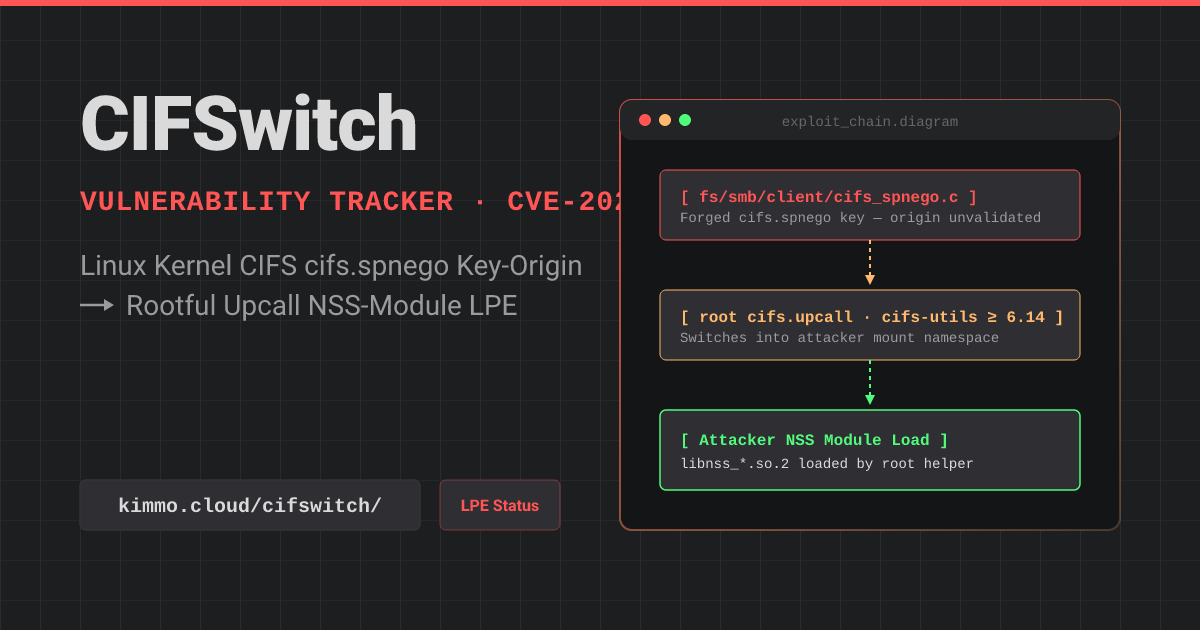
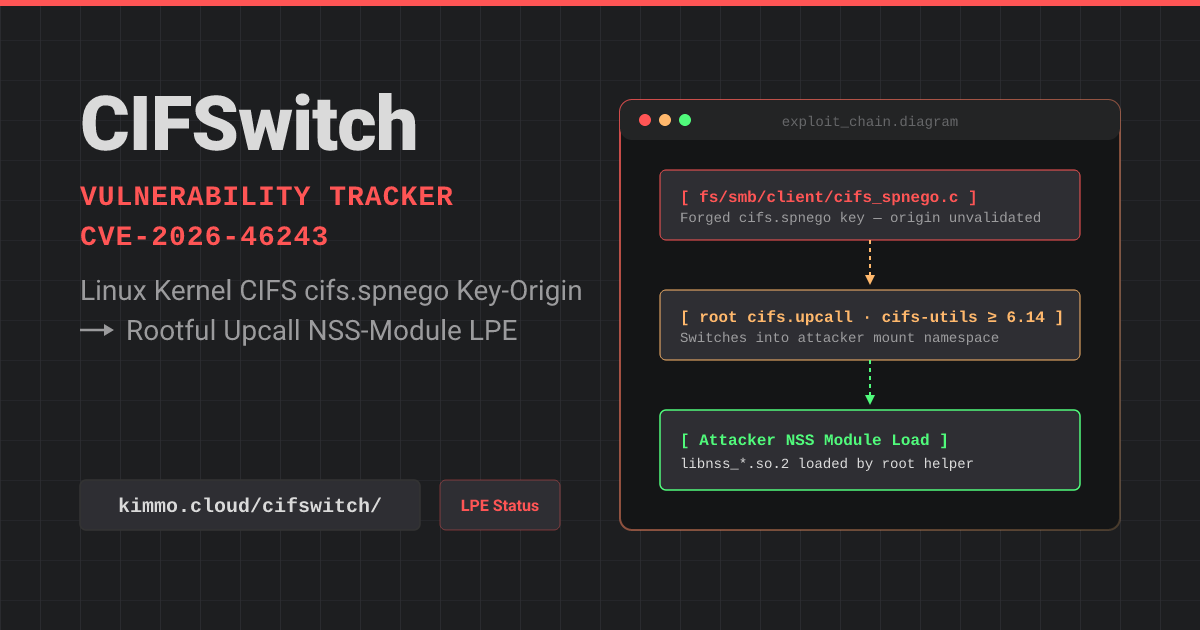
Record CVE-2026-46243 assignment across the project
The Linux kernel CNA assigned CVE-2026-46243 (smb: client: reject
userspace cifs.spnego descriptions) on 2026-06-01, keyed on fix commit
3da1fdf4efbc.  Replace the CVE-2026-XXXXX placeholder throughout and
wire up the CVE-keyed feeds.

Tracker (site/content/_index.md):

  - Summary: real CVE ID; CVSS 3.1 7.8 High
    (AV:L/AC:L/PR:L/UI:N/S:U/C:H/I:H/A:H, NVD); EPSS 0.0002 (4th pct,
    scored 2026-06-04); KEV not listed; note NVD's CWE-20 alongside the
    existing CWE-269/284 framing.
  - Vulnerable commit range: record the introducing commit f1d662a7d5e5
    (v2.6.24), per the CVE record's .dyad; the .dyad's per-branch
    first-fixed versions match the Upstream fixed versions table.
  - References: add NVD, MITRE, kernel CNA, Red Hat, EPSS, KEV.
  - Verification log: bump Last verified to 2026-06-05; update the CVE
    and feed bullets; fix the stale Rocky "no CVE assigned" note.
  - Sweep the verification log of local paths (~/src/...), command
    mechanics (git tag --contains), and fetch-pipeline plumbing, keeping
    concise external-source provenance.

Project docs and agent:

  - README, CLAUDE.md, WEBSITE.md, auto-update prompt: drop the
    placeholder; WEBSITE.md records the decision to keep the /cifswitch/
    slug (no rename to the CVE ID).
  - Fix the "inspect via HEAD" trap: the wrapper only fetches the read
    mirrors, so HEAD stays stale — inspect vulns via origin/master.
    Corrected in CLAUDE.md and the auto-update prompt.
[…]

Changed region(s): [[0.0617, 0.3619, 0.4933, 0.5429], [0.0617, 0.2714, 0.5242, 0.3317]]

diff --git a/site/content/_index.md b/site/content/_index.md
@@ -3,7 +3,7 @@ title: "CIFSwitch — CIFS cifs.spnego key-origin LPE tracking"
 description: "Linux kernel CIFS cifs.spnego key-description origin LPE, via the rootful cifs.upcall helper — distro patch status tracker"
 layout: "single"
 date: 2026-05-27
-lastmod: 2026-06-03
+lastmod: 2026-06-05
 cover:
   image: "cifswitch-tracker.png"
   alt: "CIFSwitch — CIFS cifs.spnego key-origin LPE tracker"
@@ -15,24 +15,24 @@ never validated that a `cifs.spnego` key description originated from
 kernel code, so an unprivileged user can forge one and steer the rootful
 `cifs.upcall` helper into loading an attacker-controlled NSS module.  The
 kernel fix (commit [`3da1fdf4efbc`][fix-commit]) is in mainline; distro
-adoption is being tracked below.  No CVE has been assigned yet — this
-tracker uses the placeholder `CVE-2026-XXXXX`.*
+adoption is being tracked below.  The Linux kernel CNA assigned
+[`CVE-2026-46243`][nvd] on 2026-06-01.*
 
 ## Summary
 
 | Field | Detail |
 |---|---|
-| CVE ID | Not yet assigned — placeholder `CVE-2026-XXXXX` |
+| CVE ID | [CVE-2026-46243][nvd] (assigned 2026-06-01 by the Linux kernel CNA) |
 | Alias | CIFSwitch |
 | Component | Kernel: `fs/smb/client/cifs_spnego.c` (pre-6.7 path: `fs/cifs/cifs_spnego.c`) · Userspace: `cifs.upcall` from cifs-utils ≥ 6.14 |
 | Type | Local Privilege Escalation (LPE) — forged `cifs.spnego` key → rootful upcall → attacker NSS-module load |
-| CWE | [CWE-269][cwe-269] Improper Privilege Management · [CWE-284][cwe-284] Improper Access Control |
-| CVSS | not yet scored |
+| CWE | [CWE-269][cwe-269] Improper Privilege Management · [CWE-284][cwe-284] Improper Access Control (NVD: [CWE-20][cwe-20] Improper Input Validation) |
+| CVSS | 7.8 (High) — `CVSS:3.1/AV:L/AC:L/PR:L/UI:N/S:U/C:H/I:H/A:H` (NVD) |
 | Discoverer | Asim Viladi Oglu Manizada |
 | Public disclosure | 2026-05-27 — [heyitsas.im/posts/cifswitch][writeup] |
 | Public PoC | [manizada/CIFSwitch][poc] |
-| KEV listed | not yet |
-| EPSS | n/a until a CVE is assigned |
+| KEV listed | Not listed |
+| EPSS | 0.0002 (4th percentile), scored 2026-06-04 |
 
 ## How the chain works
 
@@ -71,11 +71,11 @@ patch is the canonical fix** this tracker keys on.
 
 | Commit | Role | Description |
 |---|---|---|
-| *(git blame: ~2007)* | Introduced | The `cifs.spnego` key type has lacked an origin check since SPNEGO upcall support was added (~2007).  No single introducing commit is cited by the disclosure. |
+| `f1d662a7d5e5` | Introduced | *[CIFS] Add upcall files for cifs to use spnego/kerberos* (2007-11-05) — added the `cifs.spnego` key type without an origin check; first shipped in v2.6.24.  Identified as the introducing commit by the kernel CNA's CVE record. |
 | [`3da1fdf4efbc`][fix-commit] | Fix | Adds the `.vet_description = cifs_spnego_key_vet_description` hook, rejecting forged key descriptions; Linus mainline. |
 
 The effective lifetime of the bug is therefore roughly 19 years
-(2007–2026).
+(2007–2026), spanning v2.6.24 (released 2008-01-24) through the fix.
 
 ## Upstream fixed versions
 
@@ -147,9 +147,9 @@ On the EL family `cifs` is a loadable module and SELinux is enforcing by
 default, which may constrain `cifs.upcall`'s ability to load an arbitrary
 NSS module — confirm against the actual policy before treating a release
 as not exploitable.  The shipped `cifs-utils` version is the other gate:
-older EL releases may predate the 6.14 namespace-switch upcall.  Once a
-CVE is assigned, RLSAs (and the matching RHSA / ALSA references) carry the
-fixed kernel.
+older EL releases may predate the 6.14 namespace-switch upcall.  Watch for
+RLSAs (and the matching RHSA / ALSA references) citing CVE-2026-46243 to
+carry the fixed kernel.
 
 ## Detection
 
@@ -352,7 +352,7 @@ until a patched kernel is installed.
 
 ## Verification log
 
-*Last verified 2026-06-03.*
+*Last verified 2026-06-05.*
 
 ### Upstream
 
@@ -360,15 +360,17 @@ until a patched kernel is installed.
   `.vet_description = cifs_spnego_key_vet_description` hook in
   `fs/smb/client/cifs_spnego.c`.  The fix was merged into Linus mainline
   after v7.0 branched; it will first appear as a standalone release in v7.1.
-- **No CVE assigned**: `git -C ~/src/linux/vulns grep -l
-  3da1fdf4efbc -- 'cve/published/*'` returns no matches.
-- **All stable branches now carry the backport** (checked against
-  `~/src/linux/stable`): backports landed in all tracked branches on
-  2026-06-01.  First fixed point releases: 7.0.11, 6.18.34, 6.12.92,
-  6.6.142, 6.1.175, 5.15.209, 5.10.258 (all 2026-06-01; confirmed via
-  `git tag --contains <backport-sha>` per branch).  Current point
-  releases per kernel.org finger_banner: 7.0.11, 6.18.34, 6.12.92,
-  6.6.142, 6.1.175, 5.15.209, 5.10.258.
+- **CVE assigned**: the Linux kernel CNA assigned `CVE-2026-46243`
+  (*smb: client: reject userspace cifs.spnego descriptions*) on
+  2026-06-01.  Its record confirms the introducing commit `f1d662a7d5e5`
+  (v2.6.24) and per-branch first-fixed versions matching the *Upstream
+  fixed versions* table.
+- **All stable branches now carry the backport**: it landed in all
+  tracked branches on 2026-06-01.  First fixed point releases: 7.0.11,
+  6.18.34, 6.12.92, 6.6.142, 6.1.175, 5.15.209, 5.10.258 (all 2026-06-01,
+  confirmed per branch).  Current point releases per kernel.org
+  finger_banner match those: 7.0.11, 6.18.34, 6.12.92, 6.6.142, 6.1.175,
+  5.15.209, 5.10.258.
 
 ### Distributions
 
@@ -379,13 +381,13 @@ until a patched kernel is installed.
   9.7, Oracle Linux 9/8, CentOS Stream 9, SLES 15 SP7, openSUSE Leap
   15.6, Linux Mint 22.3/21.3, and Kali 2021.4+ as vulnerable; those are
   used as references only, not tracked as rows.
-- **Debian** (via `api.ftp-master.debian.org/madison`):
+- **Debian** (via the Debian madison archive):
   sid 7.0.10-1 / cifs-utils 7.4; forky 7.0.9-1 / cifs-utils 7.4; trixie
   6.12.86-1 / cifs-utils 7.4; bookworm 6.1.170-3 / cifs-utils 7.0;
   bullseye 5.10.223-1 / cifs-utils 6.11 (< 6.14 — primary exploit path
   absent, reduced exposure).  All kernels unpatched; Debian sid/forky
   rows flipped to `:x:`.
-- **NixOS** (via local nixpkgs clone): nixos-unstable-small and
+- **NixOS** (via the nixpkgs channel pins): nixos-unstable-small and
   nixos-25.11-small have both advanced to `linux_7_0` at 7.0.11 — the
   first fixed release; both rows `:white_check_mark: Fixed`.
   nixos-unstable and nixos-25.11 remain at 7.0.10 — still
@@ -397,18 +399,19 @@ until a patched kernel is installed.
   Proxmox ships its own kernel but Debian userland, so cifs-utils is the
   Debian base version (trixie 7.4, bookworm 7.0 — both ≥ 6.14); both rows
   flipped from `:grey_question:` to `:x: Vulnerable`.
-- **Rocky Linux** (via BaseOS `repomd.xml` → `primary` on
-  `dl.rockylinux.org` / errata RSS): 10 ⇒ kernel 6.12.0-211.16.1.el10_2
+- **Rocky Linux** (via the Rocky BaseOS repodata / errata RSS): 10 ⇒
+  kernel 6.12.0-211.16.1.el10_2
   / cifs-utils 7.5 (no update); 9 ⇒ 5.14.0-687.12.1.el9_8 / 7.5
   (RLSA-2026:21556, 2026-05-30); 8 ⇒ 4.18.0-553.126.1.el8_10 / 7.0
   (RLSA-2026:21706, 2026-05-31).  All kernels unpatched for CIFSwitch
-  (no CVE assigned; no backport in any upstream stable tree).  The new
-  RLSAs include CVE-2026-31709 (SMB/CIFS client, CWE-1288 out-of-bounds
-  read — a different CIFS vulnerability, not the `vet_description` fix).
+  (no RLSA cites CVE-2026-46243; no `vet_description` backport in the EL
+  kernels yet).  The new RLSAs include CVE-2026-31709 (SMB/CIFS client,
+  CWE-1288 out-of-bounds read — a different CIFS vulnerability, not the
+  `vet_description` fix).
   SELinux-enforcing default may still constrain the upcall (see Rocky
   notes).
-- **Amazon Linux** (via the `cdn.amazonlinux.com` core mirror →
-  `primary`): 2023 ⇒ kernel 6.1.172-216.329.amzn2023 / cifs-utils 7.5
+- **Amazon Linux** (via the Amazon Linux core repodata): 2023 ⇒ kernel
+  6.1.172-216.329.amzn2023 / cifs-utils 7.5
   (default 6.1 stream; `kernel6.12`/`kernel6.18` streams not tracked
   separately); 2 ⇒ core kernel 4.14.355-282.729.amzn2 / cifs-utils 6.2.
   Both kernels unpatched.  AL2's cifs-utils 6.2 is < 6.14 — primary
@@ -418,8 +421,12 @@ until a patched kernel is installed.
   branches now carry the fix (7.0.11, 6.18.34, 6.12.92, 6.6.142,
   6.1.175, 5.15.209, 5.10.258); no distro kernel advisory has referenced
   `3da1fdf4efbc` yet (checked Rocky errata RSS).
-- No CVE-keyed feeds (NVD, EPSS, Red Hat JSON, CISA KEV) resolve yet —
-  no CVE has been assigned.
+- **CVE-keyed feeds**: NVD has the record (status *Awaiting Analysis*,
+  CVSS 3.1 base 7.8 High `AV:L/AC:L/PR:L/UI:N/S:U/C:H/I:H/A:H`, CWE-20);
+  EPSS scores it 0.0002 (4th percentile, scored 2026-06-04); CISA KEV does
+  not list it.  NVD records CWE-20 (Improper Input Validation); the
+  Summary keeps the privilege-management framing (CWE-269 / CWE-284)
+  alongside it.
 
 ## References
 
@@ -429,9 +436,17 @@ until a patched kernel is installed.
 | Public PoC | <https://github.com/manizada/CIFSwitch> |
 | Kernel fix commit | <https://github.com/torvalds/linux/commit/3da1fdf4efbc490041eb4f836bf596201203f8f2> |
 | cifs-utils upstream | <https://git.samba.org/?p=cifs-utils.git;a=summary> |
+| NVD | <https://nvd.nist.gov/vuln/detail/CVE-2026-46243> |
+| MITRE CVE | <https://www.cve.org/CVERecord?id=CVE-2026-46243> |
+| Kernel CNA record | <https://lore.kernel.org/linux-cve-announce/?q=CVE-2026-46243> |
+| Red Hat | <https://access.redhat.com/security/cve/CVE-2026-46243> |
+| FIRST EPSS | <https://api.first.org/data/v1/epss?cve=CVE-2026-46243> |
+| CISA KEV | <https://www.cisa.gov/known-exploited-vulnerabilities-catalog> |
 
 [writeup]: https://heyitsas.im/posts/cifswitch/
 [poc]: https://github.com/manizada/CIFSwitch
 [fix-commit]: https://github.com/torvalds/linux/commit/3da1fdf4efbc490041eb4f836bf596201203f8f2
 [cwe-269]: https://cwe.mitre.org/data/definitions/269.html
 [cwe-284]: https://cwe.mitre.org/data/definitions/284.html
+[cwe-20]: https://cwe.mitre.org/data/definitions/20.html
+[nvd]: https://nvd.nist.gov/vuln/detail/CVE-2026-46243

diff --git a/CLAUDE.md b/CLAUDE.md
@@ -13,8 +13,8 @@ The canonical fix is Linus mainline commit
 `.vet_description = cifs_spnego_key_vet_description` hook in
 `fs/smb/client/cifs_spnego.c` (pre-6.7 path: `fs/cifs/cifs_spnego.c`).
 
-No CVE has been assigned yet — the tracker uses the placeholder
-`CVE-2026-XXXXX`.  Disclosed 2026-05-27 by Asim Viladi Oglu Manizada.
+Tracked as `CVE-2026-46243`, assigned by the Linux kernel CNA on
[phone redacted].  Disclosed 2026-05-27 by Asim Viladi Oglu Manizada.
 Writeup: <https://heyitsas.im/posts/cifswitch/> · PoC:
 <https://github.com/manizada/CIFSwitch>.
 
@@ -353,47 +353,40 @@ The legacy `fs/cifs/cifs_spnego.c` path applies to branches older than
 6.7.  The git smart-HTTP protocol is not Anubis-gated, so `git fetch` /
 `git ls-remote` work from any UA.
 
-## Discovering the CVE
+## The CVE (CVE-2026-46243)
 
-CIFSwitch has no CVE yet — the tracker uses the placeholder
-`CVE-2026-XXXXX`.  The CVE-keyed feeds (NVD, MITRE, Red Hat, EPSS, KEV)
-cannot *find* the assignment; they only become useful once the ID is
-known.
+CIFSwitch was assigned `CVE-2026-46243` by the Linux kernel CNA on
[phone redacted] (the kernel has been its own CNA since Feb 2024).  The
+CVE-keyed feeds (NVD, MITRE, Red Hat, EPSS, KEV) are now live and are the
+sources to watch for a score, percentile, or KEV change — see "Date
+handling" for when an EPSS re-score is a no-op.
 
-The deterministic discovery path is the Linux kernel CNA's `vulns.git`
-(the kernel has been its own CNA since Feb 2024).  Records move through
-two stages, and the directory says which:
-
-- `cve/review/proposed/<release>-<reviewer>` — a candidate the CNA's
-  dredge has flagged but **not yet assigned**.  No CVE ID.
-- `cve/published/<year>/CVE-YYYY-NNNNN{,.json,.mbox,.dyad}` — an
-  **assigned** CVE.  The filename is the ID.
-
-Both stages reference the *fixing commit SHA*, and the CIFSwitch fix
-commit is known, so discovery is a grep — no keyword guessing.  The
-authoritative "a CVE exists" check scopes to `cve/published/`:
+It was discovered via the deterministic path: the kernel CNA's
+`vulns.git` keys every record on the *fixing commit SHA*, and the
+CIFSwitch fix commit is known, so the check is a grep — no keyword
+guessing.  **Inspect via `origin/master`, not `HEAD`** — the wrapper
+refreshes the clone with `git fetch` only, which advances the
+remote-tracking ref but leaves local `HEAD` stale (a `HEAD` grep can miss
+a record that has already landed):
 
 ```
-git -C ~/src/linux/vulns fetch --quiet origin
 git -C ~/src/linux/vulns grep -l 3da1fdf4efbc -- 'cve/published/*'
 ```
 
-When that matches, the matching filename *is* the CVE ID.  At that point:
+The match is `cve/published/2026/CVE-2026-46243.*`.  The record's `.dyad`
+gives the authoritative per-branch `<introduced>:<fixed>` versions
+(introduced 2.6.24 / `f1d662a7d5e5`; the fixed versions match the
+*Upstream fixed versions* table):
 
-1. Replace `CVE-2026-XXXXX` throughout `site/content/_index.md` (and any
-   CVE-keyed URLs in `CLAUDE.md`) with the real ID, and add the
-   CVE-keyed feeds.
-2. Read the record's `.dyad` for the per-branch `<introduced>:<fixed>`
-   versions — authoritative for the *Upstream fixed versions* table:
-   `git -C ~/src/linux/vulns show HEAD:cve/published/<year>/CVE-….dyad`.
-3. See `WEBSITE.md` for the repo / site-path rename to the CVE ID.
+```
+git -C ~/src/linux/vulns show origin/master:cve/published/2026/CVE-2026-46243.dyad
+```
 
-The wrapper refreshes `vulns` every run, so this works the moment a CVE
-lands; inspect via `HEAD` (it tracks a single branch).  Smart-HTTP
-`git fetch` is not Anubis-gated.  Secondary, fuzzier signals only: the
-disclosure writeup / oss-security, or an NVD keyword search — note that a
-non-kernel-CNA assignment (MITRE or a distro) may surface there without a
-matching `vulns.git` record.
+The repo / site path was **not** renamed to the CVE ID (see `WEBSITE.md`);
+the published URL stays `kimmo.cloud/cifswitch/`.  Should a *second*,
+non-kernel-CNA CVE ever surface (MITRE or a distro) it may appear in NVD
+without a matching `vulns.git` record — watch the disclosure writeup /
+oss-security as a fuzzier secondary signal.
 
 ## Local nixpkgs clone for NixOS channel verification
 
@@ -521,7 +514,12 @@ version, not just the kernel:
 | stable kernel releases | <https://www.kernel.org/category/releases.html> |
 | stable point release banner | <https://www.kernel.org/finger_banner> |
 | cifs-utils upstream | <https://git.samba.org/?p=cifs-utils.git;a=summary> |
-| Debian security tracker (once CVE assigned) | <https://security-tracker.debian.org/tracker/> |
+| NVD record | <https://nvd.nist.gov/vuln/detail/CVE-2026-46243> |
+| MITRE CVE record | <https://www.cve.org/CVERecord?id=CVE-2026-46243> |
+| Red Hat CVE | <https://access.redhat.com/security/cve/CVE-2026-46243> |
+| FIRST EPSS | <https://api.first.org/data/v1/epss?cve=CVE-2026-46243> |
+| CISA KEV catalog | <https://www.cisa.gov/known-exploited-vulnerabilities-catalog> |
+| Debian security tracker | <https://security-tracker.debian.org/tracker/CVE-2026-46243> |
 | Debian package madison (dak-backed) | <https://api.ftp-master.debian.org/madison?package=linux&s=sid,forky,trixie,bookworm,bullseye&text=on> |
 | Ubuntu CVE tracker | <https://ubuntu.com/security/cves> |
 | Red Hat security search | <https://access.redhat.com/security/security-updates/> |
@@ -532,9 +530,9 @@ version, not just the kernel:
 | Proxmox advisories (thread) | <https://forum.proxmox.com/threads/proxmox-virtual-environment-security-advisories.149331/> |
 | Proxmox advisories (user posts, newest first) | <https://forum.proxmox.com/search/16039688/?t=post&c[users]=ProxmoxSecurityAdvisory&o=date> |
 
-Once a CVE is assigned, switch the placeholder `CVE-2026-XXXXX`
-throughout the tracker to the real ID and add the CVE-keyed feeds (NVD,
-MITRE CVE Awg JSON, Red Hat JSON, FIRST EPSS, CISA KEV).
+The CVE-keyed feeds above (NVD, MITRE, Red Hat, FIRST EPSS, CISA KEV) are
+live now that `CVE-2026-46243` is assigned; monitor them for a CVSS score,
+KEV listing, or EPSS score/percentile shift.
 
 For machine-readable data, prefer API/feed endpoints over HTML pages —
 several distro sites are JS-rendered SPAs that don't render via WebFetch.

diff --git a/WEBSITE.md b/WEBSITE.md
@@ -25,24 +25,22 @@ trackers; only the content and a few config strings differ.
 - **Web server:** existing nginx vhost on `kimmo.cloud` serves
   `htdocs/cifswitch/` directly at the URL path `/cifswitch/`.
 
-## Naming — pre-CVE slug
+## Naming — nickname slug (kept)
 
-No CVE has been assigned to CIFSwitch yet.  Following the precedent of
-the sibling trackers (pintheft is still on its nickname slug; Dirty Frag
-was renamed from `/dirty-frag/` to `/CVE-2026-43284/` once MITRE assigned
-the ID), this site is published under its nickname slug `/cifswitch/` for
-now:
+`CVE-2026-46243` was assigned by the Linux kernel CNA on 2026-06-01, but
+this site **keeps its nickname slug** `/cifswitch/` rather than retargeting
+to the CVE ID.  (Sibling-tracker precedent runs both ways: pintheft stayed
+on its nickname; Dirty Frag was renamed to `/CVE-2026-43284/`.  For
+CIFSwitch the decision is to stay on the nickname.)  Unchanged:
 
 - repo: `~/src/cifswitch`, `github.com/suominen/cifswitch`
 - Go module path: `github.com/suominen/cifswitch/site`
 - URL: `https://kimmo.cloud/cifswitch/`
 - systemd units: `cifswitch-tracker-update.{service,timer}`
 
-When a CVE is assigned, retarget `baseURL`, the repo/dir name, the Go
-module path, and the rsync destination to the CVE ID — and leave (or
-add) a redirect from `/cifswitch/` so existing links survive.  The
-auto-update prompt already instructs the agent to swap the placeholder
-`CVE-2026-XXXXX` for the real ID in the tracker body once assigned.
+The CVE ID lives in the tracker body, Summary table, and references — not
+in the repo name, `baseURL`, Go module path, or rsync destination.  No
+redirect is needed since the slug never moved.
 
 ## Tracker content
 

diff --git a/README.md b/README.md
@@ -14,8 +14,9 @@ The canonical fix is Linux kernel mainline commit
 [`3da1fdf4efbc`](https://github.com/torvalds/linux/commit/3da1fdf4efbc490041eb4f836bf596201203f8f2),
 which adds a `.vet_description` hook that rejects forged key descriptions.
 
-No CVE has been assigned yet; the tracker uses the placeholder
-`CVE-2026-XXXXX`.
+Tracked as
+[`CVE-2026-46243`](https://nvd.nist.gov/vuln/detail/CVE-2026-46243),
+assigned by the Linux kernel CNA on 2026-06-01.
 
 The rendered site is published at **<https://kimmo.cloud/cifswitch/>**.
 Deployment plan and current setup state live in [`WEBSITE.md`](WEBSITE.md).